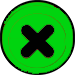
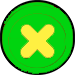
Have the prime berry showing on the calendar each month

Changed region(s): [[0.2667, 0.32, 0.7467, 0.7733]]

diff --git a/lib/berries.rb b/lib/berries.rb
@@ -1,6 +1,7 @@
 class Berries
 
   attr_accessor :x, :y
+  attr_reader :yellow, :white, :black, :pink, :orange, :blue, :green, :gray, :red, :teal, :brown, :purple
 
   def initialize(window, x, y)
     @window = window
@@ -36,38 +37,52 @@ class Berries
 
   def draw
 
-    if @window.basket[:yellow] >= 1
-      @yellow.draw(@x, @y, 0)
-      draw_text(@x + 50, @y + 20, "x #{@window.basket[:yellow]}", @quantity, 0xffffffff)
+    # if @window.basket[:yellow] >= 1
+    #   @yellow.draw(@x, @y, 0)
+    #   draw_text(@x + 50, @y + 20, "x #{@window.basket[:yellow]}", @quantity, 0xffffffff)
+    # end
+    #
+    # if @window.basket[:white] >= 1
+    #   @white.draw(@x + col(1), @y, 0)
+    #   draw_text(@x + col(1) + 50, @y + 20, "x #{@window.basket[:white]}", @quantity, 0xffffffff)
+    # end
+    #
+    # if @window.basket[:black] >= 1
+    #   @black.draw(@x + col(2), @y, 0)
+    #   draw_text(@x + col(2) + 50, @y + 20, "x #{@window.basket[:black]}", @quantity, 0xffffffff)
+    # end
+    #
+    # @pink.draw(@x + col(3), @y, 0) if @window.basket[:pink] >= 1
+    # @orange.draw(@x + col(4), @y, 0) if @window.basket[:orange] >= 1
+    # @blue.draw(@x + col(5), @y, 0) if @window.basket[:blue] >= 1
+    #
+    # @green.draw(@x, @y + 60, 0) if @window.basket[:green] >= 1
+    # @gray.draw(@x + col(1), @y + 60, 0) if @window.basket[:gray] >= 1
+    # @red.draw(@x + col(2), @y + 60, 0) if @window.basket[:red] >= 1
+    # @teal.draw(@x + col(3), @y + 60, 0) if @window.basket[:teal] >= 1
+    # @brown.draw(@x + col(4), @y + 60, 0) if @window.basket[:brown] >= 1
+    # @purple.draw(@x + col(5), @y + 60, 0) if @window.basket[:purple] >= 1
+
+    # case @window.calendar.month_count
+    # when 0
+    #   berry_color = @window.berry_configs.select { |b| b[:prime_month] = 0 }
+    #   send("#{berry_color.first[:color]}").draw(50, 50, 5)
+    # end
+    draw_calendar_berry(@window.calendar.month_count)
+  end
+
+  def draw_calendar_berry(month_count)
+    @window.berry_configs.each do |config|
+      if config[:prime_month] == month_count
+        @draw_color = config[:color]
+      end
     end
-
-    if @window.basket[:white] >= 1
-      @white.draw(@x + col(1), @y, 0)
-      draw_text(@x + col(1) + 50, @y + 20, "x #{@window.basket[:white]}", @quantity, 0xffffffff)
-    end
-
-    if @window.basket[:black] >= 1
-      @black.draw(@x + col(2), @y, 0)
-      draw_text(@x + col(2) + 50, @y + 20, "x #{@window.basket[:black]}", @quantity, 0xffffffff)
-    end
-
-    @pink.draw(@x + col(3), @y, 0) if @window.basket[:pink] >= 1
-    @orange.draw(@x + col(4), @y, 0) if @window.basket[:orange] >= 1
-    @blue.draw(@x + col(5), @y, 0) if @window.basket[:blue] >= 1
-
-    @green.draw(@x, @y + 60, 0) if @window.basket[:green] >= 1
-    @gray.draw(@x + col(1), @y + 60, 0) if @window.basket[:gray] >= 1
-    @red.draw(@x + col(2), @y + 60, 0) if @window.basket[:red] >= 1
-    @teal.draw(@x + col(3), @y + 60, 0) if @window.basket[:teal] >= 1
-    @brown.draw(@x + col(4), @y + 60, 0) if @window.basket[:brown] >= 1
-    @purple.draw(@x + col(5), @y + 60, 0) if @window.basket[:purple] >= 1
+    send("#{@draw_color}").draw(150, 30, 5)
   end
 
   def update
 
   end
-
-
 
   def draw_text_centered(text, font, y_adjust, c)
     x = (800 - font.text_width(text)) / 2

diff --git a/main.rb b/main.rb
@@ -15,7 +15,7 @@ class Main < Gosu::Window
 
   include Keys
   include BerryConfig
-  attr_reader :month, :basket, :selected, :month_count
+  attr_reader :month, :basket, :selected, :month_count, :calendar, :berry_configs
   attr_accessor :picked_berries
 
   def initialize
@@ -29,7 +29,7 @@ class Main < Gosu::Window
     @cursor = Cursor.new(self, true)
     @button_reset = Buttons.new(self, 90, 480, "reset")
     @button_combine = Buttons.new(self, 340, 480, "combine")
-    @button_sell = Buttons.new(self, 220, 480, "combine")
+    @button_sell = Buttons.new(self, 220, 480, "sell")
 
 
     @basket = { yellow: 5, white: 5, black: 5, pink: 0,
@@ -51,7 +51,6 @@ class Main < Gosu::Window
 
 
     @money = 0
-
   end
 
   def build_berries
@@ -71,6 +70,7 @@ class Main < Gosu::Window
   end
 
   def draw
+    @berry_images.draw
     @bg.draw(0, 0, 0)
     @button_reset.draw
     @button_combine.draw
@@ -85,9 +85,11 @@ class Main < Gosu::Window
     draw_text(510, 235, "Berry 2 = #{@picked_berries[1].color.capitalize}", @farmer_font, Gosu::Color::BLACK) if @picked_berries.size > 1
     draw_text(85, 560, "Reset Berries", @test_font, Gosu::Color::BLACK)
     draw_text(330, 560, "Combine Berries", @test_font, Gosu::Color::BLACK)
-    draw_text(200, 560, "Sell Berries", @test_font, Gosu::Color::BLACK)
+    draw_text(220, 560, "Sell Berries", @test_font, Gosu::Color::BLACK)
 
     draw_text(670, 30, "money #{@money}", @test_font, Gosu::Color::BLACK)
+    draw_text(620, 30, "month count #{@calendar.month_count}", @test_font, Gosu::Color::RED)
+
   end
 
   def combine_berries(berry1, berry2)
@@ -210,7 +212,7 @@ class Main < Gosu::Window
         @basket[b2.to_sym] -= 1
         if @calendar.day_count == 5
           @calendar.day_count = 0
-          @calendar.months.shift
+          @calendar.month_count += 1
         end
         @calendar.day_count += 1
         generate_correct_berry(combine_berries(@picked_berries[0], @picked_berries[1]), @calendar.month_count) if @picked_berries.size > 0
@@ -238,15 +240,16 @@ class Main < Gosu::Window
         max = 7
     end
     value = max - (6 - ((prime_month - current_month).abs - 6).abs) * down_by_rate
-    value < 0 ? 0 : value
-    value = value.to_i
+    value < 0 ? 0 : value.to_i
   end
 
   def sell_berries?
     @locs.each do |location|
       if @button_sell.bounds.collide?(location[0], location[1])
+        if @picked_berries.size == 2
         @money += @picked_berries[0].current_sale_value(@calendar.month_count, @picked_berries[0].prime_sell_month, @picked_berries[0].type)
         @money += @picked_berries[1].current_sale_value(@calendar.month_count, @picked_berries[1].prime_sell_month, @picked_berries[1].type)
+
 
 
         b1 = @picked_berries[0].color
@@ -254,9 +257,11 @@ class Main < Gosu::Window
         @basket[b1.to_sym] -= 1
         @basket[b2.to_sym] -= 1
 
+        end
+
         if @calendar.day_count == 5
           @calendar.day_count = 0
-          @calendar.months.shift
+          @calendar.month_count += 1
         end
 
         @calendar.day_count += 1

diff --git a/lib/berry_configs.rb b/lib/berry_configs.rb
@@ -14,7 +14,6 @@ module BerryConfig
 
   def red_config
     { price: 200, window: self, x: 10, y: 400, color: "red", genetics: ["y", "y", "z", "z"], cols: 2, type: :uncommon, prime_month: 6, prime_sell_month: 0 }
-
   end
 
   def yellow_config

diff --git a/lib/farmer.rb b/lib/farmer.rb
@@ -14,4 +14,10 @@ class Farmer
     @text_bubble.draw(@x - 100, @y - 250, 0)
   end
 
+  def recept(berry_color, sale_price)
+
+  end
+
+
+
 end

diff --git a/lib/calendar.rb b/lib/calendar.rb
@@ -26,8 +26,6 @@ class Calendar
 
     @day_count = 1
     @month_count = 0
-
-
   end
 
   def draw
